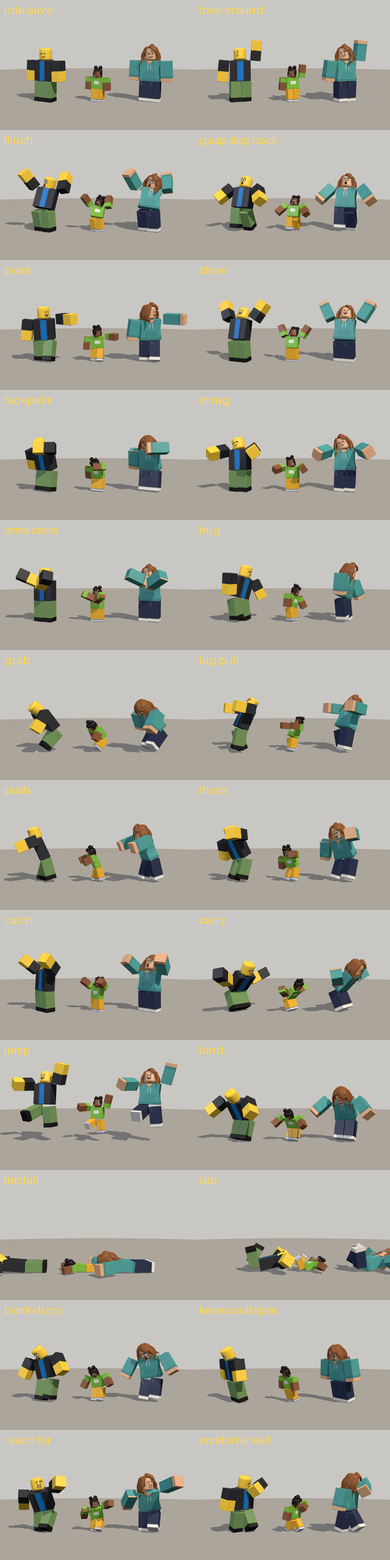
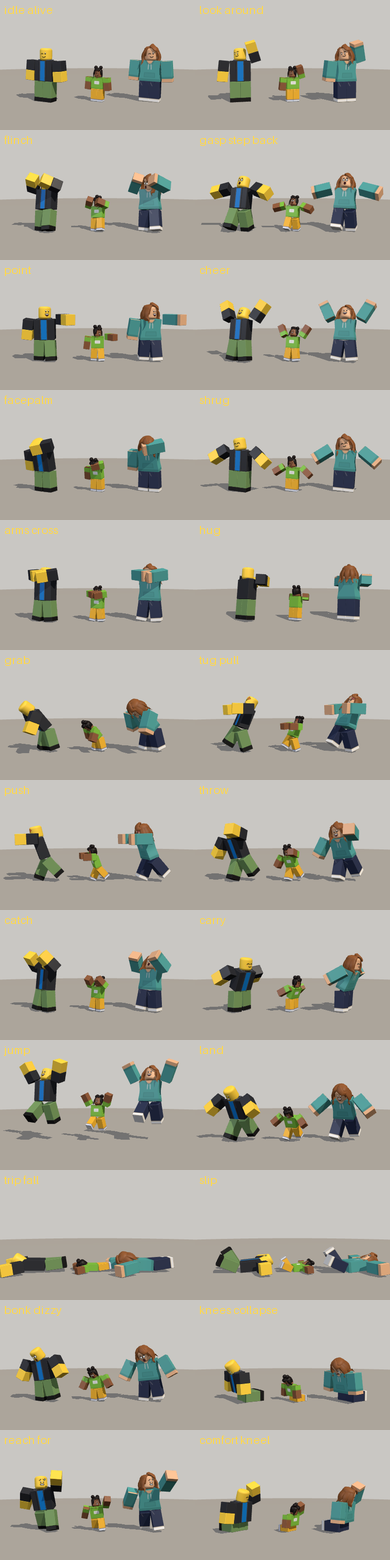
tuft E5 phase 1A fix: authored classic R6 keys (r6keys.js) replace the retarget; R6 contact gates; per-machine byte-identity
Claude-Session: https://claude.ai/code/session_01J6Ujxx5YjtoGHSygWY6CTh

diff --git a/engine/r6keys.js b/engine/r6keys.js
@@ -1,0 +1,74 @@
+// engine/r6keys.js — authored classic R6 key poses (owner 2026-11-24: rigid R6, no bends). Data only: acting6 P() specs on
+// shoulders / hips / head / root, waist 0, ik 0. Timing (act, tail, anticipation, overshoot, settle, holds) stays acting6's.
+// Classic R6 cheats: a crouch is a leg splay (the body plants lower), a kneel is a leg laid flat behind, a bend is a whole-body
+// lean with the legs counter-rotated. engine/r6.js plants every grounded pose on the floor, so no key carries a root height.
+// Conventions (degrees): shoulder/hip x < 0 = forward/up; left z < 0 / right z > 0 = outward; root lean > 0 = forward.
+// A leg's world angle = hip x + root lean (> 0 = behind): a lean of 40 with straight-down legs needs hips at −40.
+import {P, REST, VERBS} from './acting6.js';
+
+const Z = {waist: [0, 0, 0], ik: 0};
+const k = spec => P({...Z, ...spec});
+// settle = the key eased 12 % back toward rest (a held key that breathes out), unless authored
+const ease = (key, f = .12) => Object.fromEntries(Object.entries(key).map(([c, x]) => [c, typeof x === 'number' && typeof REST[c] === 'number' && c !== 'ik' ? x + f * (REST[c] - x) : x]));
+const V = (key, {settle = null, antic = null, ...rest} = {}) => { const K = k(key); return {key: K, settle: settle ? k(settle) : ease(K), ...(antic ? {antic: k(antic)} : {}), ...rest}; };
+const ARC = {arc: undefined};   // no elbow arc on a rigid arm
+
+export const R6KEYS = {
+  idle_alive: V({lS: [0, 0, -4], rS: [2, 0, 5], head: [0, 9, 0], root: {dx: .06, roll: -1.5}}, {settle: {lS: [0, 0, -4], rS: [2, 0, 5], head: [0, 9, 0], root: {dx: .06, roll: -1.5}}}),
+  look_around: V({head: [-6, -35, 0], rS: [-165, 0, -18], lS: [2, 0, -6], root: {yaw: -10}}, {settle: {head: [-6, 35, 0], rS: [-165, 0, -18], lS: [2, 0, -6], root: {yaw: 10}}}),
+  flinch: V({lS: [-125, 0, 32], rS: [-112, 0, -34], head: [14, -28, -8], lH: [8, 0, -5], rH: [-8, 0, 5], root: {lean: -10, roll: 4, dz: -.12}}, {antic: {head: [-6, 0, 0], root: {lean: 3}}, ...ARC}),
+  gasp_step_back: V({lS: [-35, 0, -70], rS: [-35, 0, 70], head: [-12, 0, 0], lH: [-18, 0, -3], rH: [22, 0, 3], root: {lean: -10}}, ARC),
+  point: V({rS: [-92, 0, 38], lS: [4, 0, -8], head: [-5, 30, 0], lH: [2, 0, -3], rH: [-12, 0, 4], root: {yaw: 15, lean: 4}}, ARC),
+  cheer: V({lS: [-12, 0, -152], rS: [-12, 0, 152], head: [-20, 0, 0], lH: [0, 0, -8], rH: [0, 0, 8], root: {lean: -8}}, ARC),
+  // facepalm / comfort_kneel arms: solved by engine/r6.js aimArm (tests/r6.js re-checks them: hand ≤ 0.25 from the face / on the shoulder)
+  facepalm: V({rS: [-76.25, 0, -61.25], lS: [2, 0, -6], head: [24, -6, 0], root: {lean: 12}, lH: [-10, 0, -2], rH: [-10, 0, 2]},
+    {settle: {rS: [-81.5, 0, -60.5], lS: [2, 0, -6], head: [21, -5, 0], root: {lean: 10.56}, lH: [-8.8, 0, -2], rH: [-8.8, 0, 2]}, ...ARC}),
+  shrug: V({lS: [-22, 0, -52], rS: [-22, 0, 52], head: [0, 0, 12], root: {roll: -3}}, ARC),
+  arms_cross: V({lS: [-80, 0, 52], rS: [-72, 0, -52], head: [-6, -12, 4], lH: [0, 0, -7], rH: [0, 0, 7], root: {lean: -3}}),
+  grab: V({rS: [-62, 0, 6], lS: [-18, 0, -10], head: [12, 0, 0], lH: [-48, 0, -4], rH: [-25, 0, 4], root: {lean: 40}},
+    {settle: {rS: [-80, 0, 6], lS: [-8, 0, -8], head: [4, 0, 0], lH: [-16, 0, -3], rH: [-4, 0, 3], root: {lean: 10}}, ...ARC}),
+  tug_pull: V({lS: [-62, 0, 14], rS: [-68, 0, -14], head: [-6, 0, 0], lH: [-10, 0, -4], rH: [40, 0, 4], root: {lean: -24}}),
+  push: V({lS: [-108, 0, 8], rS: [-108, 0, -8], head: [-6, 0, 0], lH: [-42, 0, -3], rH: [22, 0, 3], root: {lean: 20}}),
+  throw: V({rS: [-125, 0, 14], lS: [-32, 0, -30], head: [-5, 4, 0], lH: [-40, 0, -5], rH: [12, 0, 5], root: {lean: 18, yaw: 30, roll: 8}},
+    {antic: {rS: [55, 0, 22], lS: [-40, 0, -20], lH: [-10, 0, -4], rH: [10, 0, 4], root: {lean: -10, yaw: -22}}, ...ARC}),
+  catch: V({lS: [-132, 0, 16], rS: [-132, 0, -16], head: [-15, 0, 0], lH: [-6, 0, -4], rH: [6, 0, 4], root: {lean: -6}}, ARC),
+  jump: V({lS: [-160, 0, -22], rS: [-160, 0, 22], head: [-15, 0, 0], lH: [-45, 0, -4], rH: [22, 0, 4], root: {lean: -4}},
+    {antic: {lS: [42, 0, -12], rS: [42, 0, 12], head: [10, 0, 0], lH: [-38, 0, -4], rH: [14, 0, 4], root: {lean: 16}},
+      settle: {lS: [-12, 0, -10], rS: [-12, 0, 10], lH: [-6, 0, 0], rH: [4, 0, 0], root: {lean: 4}}, sub: undefined}),
+  land: V({lS: [-50, 0, -42], rS: [-50, 0, 42], head: [14, 0, 0], lH: [-48, 0, -8], rH: [10, 0, 8], root: {lean: 24}},
+    {settle: {lS: [-10, 0, -10], rS: [-10, 0, 10], lH: [-6, 0, 0], rH: [4, 0, 0], root: {lean: 4}}}),
+  trip_fall: V({lS: [-170, 0, -22], rS: [-170, 0, 22], head: [-30, 0, 0], lH: [4, 0, -4], rH: [10, 0, 4], root: {lean: 88}}),
+  slip: V({lS: [0, 0, -100], rS: [0, 0, 100], head: [20, 0, 0], lH: [-62, 0, -8], rH: [-30, 0, 8], root: {lean: -85}},
+    {settle: {lS: [0, 0, -80], rS: [0, 0, 82], head: [12, 6, 0], lH: [-16, 0, -8], rH: [-6, 0, 8], root: {lean: -86}}}),
+  bonk_dizzy: V({lS: [-15, 0, -30], rS: [-10, 0, 24], head: [25, 0, 12], lH: [0, 0, -10], rH: [0, 0, 4], root: {lean: 6, roll: 8}}),
+  // classic R6 kneel: legs laid flat behind (hip + lean ≈ 90°: a forward lean swings the legs back too), the body planted on them
+  knees_collapse: V({lS: [-10, 0, -6], rS: [-10, 0, 6], head: [22, 0, 0], lH: [78, 0, -4], rH: [78, 0, 4], root: {lean: 12}},
+    {settle: {lS: [-6, 0, -5], rS: [-6, 0, 5], head: [30, 0, 0], lH: [70, 0, -4], rH: [70, 0, 4], root: {lean: 20}}}),
+  reach_for: V({rS: [-140, 0, 16], lS: [20, 0, -20], head: [-20, 25, 0], lH: [15, 0, -4], rH: [-25, 0, 4], root: {lean: 14, yaw: 20, roll: 6}}, ARC),
+  // comfort: the classic two-knee R6 kneel (legs flat behind), the reaching hand resting on the partner's near shoulder top
+  comfort_kneel: V({rS: [-157.5, 0, -25.25], lS: [-6, 0, -8], head: [12, 21, 0], lH: [84, 0, -4], rH: [84, 0, 4], root: {lean: 6, yaw: 10}},
+    {settle: {rS: [-156.5, 0, -24.75], lS: [-5.3, 0, -7.4], head: [10.6, 18.5, 0], lH: [84.72, 0, -4], rH: [84.72, 0, 4], root: {lean: 5.28, yaw: 8.8}}, ...ARC}),
+  comfort_b: V({head: [28, -16, 0], lS: [-4, 0, -4], rS: [-4, 0, 4], root: {lean: 10}}),
+  // hugs: both arms forward and in, around the partner's torso (size by partner: _s small, _l large); engine/r6.js turns each actor to face its partner
+  hug: V({lS: [-88, 0, 38], rS: [-88, 0, -38], head: [0, 14, 0], root: {lean: 8, roll: -4}}),
+  hug_b: V({lS: [-92, 0, 36], rS: [-92, 0, -36], head: [-10, -14, 0], root: {lean: 8, roll: 4}}),
+  hug_s: V({lS: [-62, 0, 62], rS: [-62, 0, -62], head: [22, 14, 0], lH: [-30, 0, -4], rH: [4, 0, 4], root: {lean: 22}}),
+  hug_b_s: V({lS: [-140, 0, 22], rS: [-140, 0, -22], head: [-24, 0, 0], root: {lean: -4}}),
+  hug_l: V({lS: [-120, 0, 46], rS: [-120, 0, -46], head: [-20, 14, 0], root: {lean: -4}}),
+  hug_b_l: V({lS: [-62, 0, 36], rS: [-62, 0, -36], head: [18, -14, 0], lH: [-26, 0, -4], rH: [4, 0, 4], root: {lean: 18}}),
+  // carries (acting6 CARRY): piggyback = the carried actor's hips on the lead's back, his arms angled back under her legs;
+  // hip carry = she sits on his right hip (yawed toward him), his right arm across her back. The carried actor is never planted.
+  carry: V({lS: [34, 0, -22], rS: [34, 0, 22], head: [-14, 0, 0], lH: [-26, 0, -5], rH: [-18, 0, 5], root: {lean: 24}}, {antic: {lS: [22, 0, -8], rS: [22, 0, 8], head: [6, 0, 0], lH: [-18, 0, -4], rH: [-10, 0, 4], root: {lean: 14}}}),
+  carried: V({lS: [-95, 0, 26], rS: [-95, 0, -26], head: [-26, 0, 0], lH: [-80, 0, -52], rH: [-80, 0, 52], root: {lean: 40}}),
+  carry_hip: V({rS: [-58, 0, -26], lS: [-6, 0, -8], head: [6, 14, 0], lH: [0, 0, -6], rH: [0, 0, 8], root: {roll: -5}}),
+  carried_hip: V({lS: [-100, 0, 30], rS: [-100, 0, -30], head: [-6, 10, 0], lH: [-70, 0, -34], rH: [-70, 0, 34], root: {lean: -6}}),
+  carry_box: V({lS: [-80, 0, 12], rS: [-80, 0, -12], head: [6, 0, 0], root: {lean: -5}}),
+  // gestures (talk): rigid arm flicks, head moves keep acting6's own keys
+  beat: {key: k({rS: [-28, 0, 10]})},
+  open_palms: {key: k({lS: [-42, 0, -32], rS: [-42, 0, 32]})},
+};
+// hugs: each actor turns to face its partner (a rigid body cannot reach sideways; yaw from acting6's two.place) and steps in
+const HUG_STEP = [.7, .45];
+for (const sfx of ['', '_s', '_l']) { const v = VERBS['hug' + sfx]; if (!v?.two) continue; const [x, z, yw] = v.two.place, lead = Math.atan2(x, z) * 180 / Math.PI, back = Math.atan2(-x, -z) * 180 / Math.PI - yw;
+  const bk = ((back + 540) % 360) - 180, step = (k, yaw, d) => { k['root.yaw'] = yaw; k['root.dx'] = d * Math.sin(yaw * Math.PI / 180); k['root.dz'] = d * Math.cos(yaw * Math.PI / 180); };
+  for (const ph of ['key', 'settle']) { step(R6KEYS['hug' + sfx][ph], lead, HUG_STEP[0]); step(R6KEYS['hug_b' + sfx][ph], bk, HUG_STEP[1]); } }   // each steps in toward the other

diff --git a/tests/r6.js b/tests/r6.js
@@ -1,4 +1,4 @@
-// tests/r6.js — R6 rig + twos + freeze gates (node-only; the render byte-identity gate spawns scripts/v2/render.js once):  node tests/r6.js
+// tests/r6.js — R6 rig (authored keys) + twos + freeze gates (node-only; the render byte-identity gate spawns scripts/v2/render.js once):  node tests/r6.js
 import {execFileSync} from 'node:child_process';
 import {createHash} from 'node:crypto';
 import {readFileSync, mkdtempSync} from 'node:fs';
@@ -13,21 +13,23 @@ import {widthAt} from '../avatar-style/hourglass.js';
 const gates = [], gate = (name, pass, line) => { gates.push({name, pass}); console.log(`${pass ? 'PASS' : 'FAIL'}  ${name} — ${line}`); };
 const REACH_MAX = .35, builds = ['adult_m', 'youth', 'adult_f'];
 const verbs = [...new Set([...A.VERB_NAMES, ...Object.values(A.PARTNER).filter(Boolean)])];
-// 1. hand / foot target error at each verb's contact key (limbs the verb moves > .6 stud from the idle pose)
-const rest = A.fk(A.sampleVerb('idle_alive', 0).sample), centre = c => c.reduce((a, p) => a.map((x, i) => x + p[i] / c.length), [0, 0, 0]), dist = (a, b) => Math.hypot(...a.map((x, i) => x - b[i]));
-const reach = [];
-for (const n of verbs) { const s = A.sampleVerb(n, A.timing(A.VERBS[n]).key).sample, f = A.fk(s), r = R.reachErrors(s, 'adult_m'), used = [];
-  for (const k of ['leftHand', 'rightHand']) if (dist(f[k].p, rest[k].p) > .6) used.push(k);
-  for (const k of ['leftFoot', 'rightFoot']) if (dist(centre(f[k + 'Corners']), centre(rest[k + 'Corners'])) > .6) used.push(k);
-  reach.push({verb: n, worst: used.length ? Math.max(...used.map(k => r.err[k])) : 0, limbs: used.map(k => `${k[0]}${k.includes('Hand') ? 'H' : 'F'}:${r.err[k].toFixed(2)}`).join(' ')}); }
-const bad = reach.filter(x => x.worst > REACH_MAX);
-gate('reach ≤ 0.35 studs at every verb key', bad.length === 0, `${reach.length - bad.length}/${reach.length} verbs pass; worst ${Math.max(...reach.map(x => x.worst)).toFixed(2)}${bad.length ? '; over: ' + bad.map(x => `${x.verb} ${x.worst.toFixed(2)}`).join(', ') : ''}`);
+// 1. authored R6 contacts (engine/r6keys.js): facepalm hand at the face, comfort hand on the partner's shoulder, kneels' legs flat,
+//    hugs' hands at the partner's torso (each actor turned to face the other)
+const c = R.r6Contacts(), K = n => A.timing(A.VERBS[n]).key, S6 = (n, b = 'adult_m') => R.sampleVerbR6(n, K(n), {build: b}).sample;
+const kneel = Math.max(...['knees_collapse', 'comfort_kneel'].flatMap(n => ['leftFoot', 'rightFoot'].map(f => R.r6Fk(S6(n))[f].p[1])));
+const hugGap = Math.max(...['', '_s', '_l'].map(sfx => { const [x, z, yw] = A.VERBS['hug' + sfx].two.place, pt = R.r6Fk(S6('hug_b' + sfx)).root.p, cy = Math.cos(yw * Math.PI / 180), sy = Math.sin(yw * Math.PI / 180);
+  const ctr = [pt[0] * cy + pt[2] * sy + x, 0, -pt[0] * sy + pt[2] * cy + z], f = R.r6Fk(S6('hug' + sfx));
+  return Math.max(...['leftHand', 'rightHand'].map(h => Math.hypot(f[h].p[0] - ctr[0], f[h].p[2] - ctr[2]))); }));
+gate('R6 contacts (facepalm ≤ 0.25, comfort ≤ 0.05, kneel legs flat ≤ 0.6, hug hands ≤ 1.3 from partner centre)',
+  Math.max(c.facepalm.key, c.facepalm.settle) <= .25 && Math.max(c.comfort_kneel.key, c.comfort_kneel.settle) <= .05 && kneel <= .6 && hugGap <= 1.3,
+  `facepalm ${c.facepalm.key}/${c.facepalm.settle}, comfort ${c.comfort_kneel.key}/${c.comfort_kneel.settle}, kneel tip y max ${kneel.toFixed(2)}, hug hands ${hugGap.toFixed(2)}`);
 // 2. lowestY ≥ −0.02 and limb / torso overlap ≤ 0.05 over every verb (1/24 s sweep, three builds) and cycle
-let lowMin = Infinity, penMax = 0, lowAt = '', penAt = ''; const check = (tag, s, b) => { const lo = R.lowestR6(s, b), bx = R.r6Boxes(s, b); if (lo < lowMin) { lowMin = lo; lowAt = tag; }
+let lowMin = Infinity, penMax = 0, lowAt = '', penAt = '', floatMax = 0; const check = (tag, s, b) => { const lo = R.lowestR6(s, b), bx = R.r6Boxes(s, b); if (lo < lowMin) { lowMin = lo; lowAt = tag; }
   for (const k of ['leftArm', 'rightArm', 'leftLeg', 'rightLeg']) { const p = R.penetration(bx[k], bx.torso).depth; if (p > penMax) { penMax = p; penAt = `${tag} ${k}`; } } };
-for (const b of builds) { for (const n of A.VERB_NAMES) { const tm = A.timing(A.VERBS[n]); for (let t = 0; t <= tm.end; t += 1 / 24) check(`${n}@${t.toFixed(2)}/${b}`, R.retargetR15toR6(A.sampleVerb(n, t, {build: b}).sample, b), b); }
+for (const b of builds) { for (const n of A.VERB_NAMES) { const tm = A.timing(A.VERBS[n]); for (let t = 0; t <= tm.end; t += 1 / 24) { const r6 = R.sampleVerbR6(n, t, {build: b}), s6 = r6.sample; check(`${n}@${t.toFixed(2)}/${b}`, s6, b); if (!A.VERBS[n].air && !R.UNPLANTED.has(n)) floatMax = Math.max(floatMax, R.lowestR6(s6, b) - Math.max(0, r6.ch['root.dy'])); } }
   for (const n of R.R6CYCLE_NAMES) for (let t = 0; t < 2 * A.CYCLES[n].T; t += 1 / 24) check(`${n}@${t.toFixed(2)}/${b}`, R.r6Cycle(n, t, {build: b}), b); }
 gate('lowestY ≥ −0.02 (verbs + cycles, 3 builds)', lowMin >= R.LOW_TOL, `min ${lowMin.toFixed(3)} at ${lowAt}`);
+gate('grounded verbs planted (lowest − authored bounce ≤ 0.02)', floatMax <= .02, `max ${floatMax.toFixed(3)}`);
 gate('limb box inside torso box ≤ 0.05', penMax <= R.MAX_PEN + 1e-3, `max ${penMax.toFixed(3)} at ${penAt}`);
 // 3. twos: poses identical on frame pairs (2k, 2k + 1), camera differs
 const shot = {move: 'push', from: {position: [0, 4, 20], target: [0, 3, 0], fov: 40}, duration: 3, fps: 24}; let same = 0, camDiff = 0, N = 0;
@@ -35,11 +37,13 @@ for (let k = 0; k < 36; k++) { const t0 = 2 * k / 24, t1 = (2 * k + 1) / 24; N++
   const a = JSON.stringify(A.sampleVerb('cheer', R.twosTime(t0)).sample), b = JSON.stringify(A.sampleVerb('cheer', R.twosTime(t1)).sample); if (a === b && R.twosTime(t0) === R.twosTime(t1)) same++;
   if (JSON.stringify(sampleCamera(shot, t0)) !== JSON.stringify(sampleCamera(shot, t1))) camDiff++; }
 gate('twos: poses identical on pairs, camera differs', same === N && camDiff === N && R.twosTime(3 / 24) === 2 / 24, `${same}/${N} pose pairs identical, camera differs on ${camDiff}/${N} pairs`);
-// 4. an existing fixture frame without `rig` renders byte-identical to the pre-R6 engine (md5 recorded before the change)
-const BASE = '52f4cd4754f23f9688ecf5f99a6a4183', out = mkdtempSync(path.join(tmpdir(), 'r6-'));
+// 4. an existing fixture frame without `rig` renders byte-identical to the pre-R6 engine. PNG bytes differ per browser / GPU, so the
+//    E4-engine md5 is recorded per machine (each one rendered from E4's engine files on that machine, then compared with this tree).
+const BASES = {'52f4cd4754f23f9688ecf5f99a6a4183': 'phase-1A machine (google-chrome)', '1e1a4e683519ee3d18cbc93c88078829': 'chromium-1243 swiftshader ($BLOX_CHROME)'};
+const out = mkdtempSync(path.join(tmpdir(), 'r6-'));
 let md5 = 'render failed'; try { execFileSync('node', ['scripts/v2/render.js', '--spec', 'engine/fixtures/acting6/episode.json', '--out', out, '--width', '270', '--height', '480', '--from', '60', '--to', '61', '--aa', '0'], {stdio: 'pipe', timeout: 300000});
   md5 = createHash('md5').update(readFileSync(path.join(out, 'frames/frame-00060.png'))).digest('hex'); } catch (e) { md5 = 'render failed: ' + String(e.message).slice(0, 80); }
-gate('byte-identical render without `rig`', md5 === BASE, `engine/fixtures/acting6 frame 60 md5 ${md5.slice(0, 12)} vs ${BASE.slice(0, 12)}`);
+gate('byte-identical render without `rig`', md5 in BASES, `engine/fixtures/acting6 frame 60 md5 ${md5.slice(0, 12)} = E4 on ${BASES[md5] ?? 'no recorded machine (render E4 engine files here and add the md5)'}`);
 // 5. freeze-check
 const fake = violations(['stories/tuft/episode.json', 'beasts/x.json', 'parts/locations/y.json', 'cast/z.json'], 'tuft'), eng = violations(['stories/tuft/episode.json', 'engine/r6.js'], 'tuft');
 gate('freeze-check: episode diff passes, engine diff fails', fake.length === 0 && eng.length === 1 && eng[0] === 'engine/r6.js', `episode diff ${fake.length} violations, engine diff ${eng.length} (${eng.join(',')})`);

diff --git a/engine/r6.js b/engine/r6.js
@@ -1,11 +1,15 @@
-// engine/r6.js — rigid classic R6 rig (opt-in spec `rig: 'r6'`, owner 2026-11-24): acting6's R15 poses retargeted onto six rigid parts (no bends), classic R6 cycles, `twos`. Pure (no three, no DOM).
+// engine/r6.js — rigid classic R6 rig (opt-in spec `rig: 'r6'`, owner 2026-11-24): AUTHORED R6 key poses (engine/r6keys.js) on acting6 timing,
+//   classic R6 cycles, `twos`. Pure (no three, no DOM). retargetR15toR6 below is the 1A automatic retarget, kept as a reference only
+//   (straight limbs cannot match R15 elbows / knees: 14/30 verbs over 0.35; the owner's sheet read stiff).
 // R6 sample = engine/poses.js shape: {root: {dx, dy, dz, lean, roll, yaw}, pivots: {head, left/rightShoulder, left/rightHip} (XYZ radians), offsets?}.
 //   retargetR15toR6(s15, build): head / torso / root rotation copied (the R6 torso takes the waist's rotation); each limb is ONE rigid
 //   part aimed along the R15 chord (shoulder → hand tip, hip → sole) with the twist of the R15 upper segment. A leg whose chord is
 //   shorter than the limb (sit, kneel, crouch) keeps the limb straight, aims along the thigh and the root sinks (classic R6: sit =
 //   legs 90° forward, kneel = one leg back, root lowered). Root height: the lowest R6 point = the lowest R15 point, never below 0.
 //   A limb box that would cut into the torso box moves its pivot out (offsets) until the overlap is ≤ 0.05.
-import {fk, lowestBody, sampleActing, timing, VERBS, CYCLES, SEGL} from './acting6.js';
+import {fk, lowestBody, sampleActing, sampleVerb, timing, VERBS, CYCLES, SEGL} from './acting6.js';
+import {R6KEYS} from './r6keys.js';
+export {R6KEYS};
 import {layout6} from '../avatar-style/body6.js';
 
 const D = Math.PI / 180, clamp01 = x => Math.min(1, Math.max(0, x)), smooth = x => { x = clamp01(x); return x * x * (3 - 2 * x); };
@@ -141,9 +145,43 @@ export function r6Cycle(name, t, {build = 'adult_m', intensity = 1} = {}) {
 }
 const mixS = (a, b, w) => ({root: Object.fromEntries(Object.keys(a.root).map(k => [k, a.root[k] + (b.root[k] - a.root[k]) * w])),
   pivots: Object.fromEntries(Object.keys(a.pivots).map(k => [k, a.pivots[k].map((x, i) => x + (b.pivots[k][i] - x) * w)])), offsets: w < 1 ? a.offsets : {}, squash: a.squash ?? 0});
-// An acting track (engine/acting6.js compileActing) sampled on R6: every verb / gesture / drift through the retarget, cycles classic.
+// ---- authored R6 keys (engine/r6keys.js): acting6 timing, R6 poses. `withR6` swaps the verb table's poses for the call only. ---------
+export function withR6(fn) {
+  const saved = {}; for (const [n, o] of Object.entries(R6KEYS)) if (VERBS[n]) { saved[n] = VERBS[n]; VERBS[n] = {...VERBS[n], ...o}; }
+  try { return fn(); } finally { Object.assign(VERBS, saved); }
+}
+// R6 sample straight from acting6 channels (degrees): head / shoulders / hips copied, waist / elbows / knees / IK ignored (rigid parts).
+// Planted: the lowest point sits on the floor, lifted only by a positive root height (jump / land flight, impact bounces). Limbs kept out of the torso.
+export const UNPLANTED = new Set(['carried', 'carried_hip']);   // placed on the carrier by the episode, never on the floor
+export function r6FromChannels(ch, build = 'adult_m', {plant = true} = {}) {
+  const lean = ch['root.lean'] * D, roll = ch['root.roll'] * D, yaw = ch['root.yaw'] * D, R0 = RYXZ({lean, roll, yaw}), c = [0, ch['root.cy'], ch['root.cz']];
+  const p = add([ch['root.dx'], ch['root.dy'], ch['root.dz']], sub(c, mv(R0, c))), cy = Math.cos(yaw), sy = Math.sin(yaw), piv = j => ['x', 'y', 'z'].map(a => (ch[`${j}.${a}`] ?? 0) * D);
+  const s = {pivots: Object.fromEntries(['head', 'leftShoulder', 'rightShoulder', 'leftHip', 'rightHip'].map(j => [j, piv(j)])),
+    root: {dx: p[0] * cy - p[2] * sy, dy: p[1], dz: p[0] * sy + p[2] * cy, lean, roll, yaw}, offsets: {}, squash: ch['torso.sq'] ?? 0};
+  clearTorso(s, build); if (plant) s.root.dy += Math.max(0, ch['root.dy']) - lowestR6(s, build);
+  return s;
+}
+// ---- contact tools: rigid arms aimed by a 2-D search over shoulder x / z (offline: the solutions are stored in r6keys.js) ------------
+const dist3 = (a, b) => Math.hypot(a[0] - b[0], a[1] - b[1], a[2] - b[2]);
+export function aimArm(verb, side, target, build = 'adult_m') {
+  const out = {};
+  for (const ph of ['key', 'settle']) { const K = R6KEYS[verb][ph], cx = side + 'Shoulder.x', cz = side + 'Shoulder.z';
+    const err = (x, z) => { const c = {...K, [cx]: x, [cz]: z}, s = r6FromChannels(c, build); return dist3(r6Fk(s, build)[side + 'Hand'].p, target(s)); };
+    let b = [Infinity, 0, 0]; for (let x = -180; x <= 60; x += 4) for (let z = -100; z <= 100; z += 4) { const e = err(x, z); if (e < b[0]) b = [e, x, z]; }
+    for (const st of [1, .25]) { const [, x0, z0] = b; for (let x = x0 - 4 * st; x <= x0 + 4 * st; x += st) for (let z = z0 - 4 * st; z <= z0 + 4 * st; z += st) { const e = err(x, z); if (e < b[0]) b = [e, x, z]; } }
+    K[cx] = b[1]; K[cz] = b[2]; out[ph] = +b[0].toFixed(3); }
+  return out;
+}
+const placeXZ = ([x, z, yaw], p) => { const c = Math.cos(yaw * D), s = Math.sin(yaw * D); return [p[0] * c + p[2] * s + x, p[1], -p[0] * s + p[2] * c + z]; };
+export const faceFront = s => { const h = r6Fk(s).head; return add(h.p, mv(h.R, [0, .62, .78])); };
+export function comfortTarget() { const pv = r6FromChannels(R6KEYS.comfort_b.key), sh = r6Fk(pv).leftShoulder.p; return placeXZ(VERBS.comfort_kneel.two.place, add(sh, [0, .55, 0])); }
+// stored solutions re-checked by tests/r6.js: hand-to-target distance of the authored facepalm / comfort_kneel keys
+export function r6Contacts() { const at = (v, side, tgt) => Object.fromEntries(['key', 'settle'].map(ph => { const s = r6FromChannels(R6KEYS[v][ph]); return [ph, +dist3(r6Fk(s)[side + 'Hand'].p, tgt(s)).toFixed(3)]; }));
+  const top = comfortTarget(); return {facepalm: at('facepalm', 'right', faceFront), comfort_kneel: at('comfort_kneel', 'right', () => top)}; }
+export function sampleVerbR6(name, t, opts = {}) { const b = withR6(() => sampleVerb(name, t, opts)); return {...b, sample: r6FromChannels(b.ch, opts.build, {plant: !UNPLANTED.has(name)})}; }
+// An acting track (engine/acting6.js compileActing) sampled on R6: authored R6 keys on acting6 timing, cycles classic.
 export function sampleActingR6(tr, t, {seed = 1, build = 'adult_m'} = {}) {
-  const base = sampleActing(tr, t, {seed, build}); let s = retargetR15toR6(base.sample, build);
+  const base = withR6(() => sampleActing(tr, t, {seed, build})), it = tr.items.findLast(x => x.start <= t); let s = r6FromChannels(base.ch, build, {plant: !UNPLANTED.has(it?.verb)});
   let i = -1; for (let k = 0; k < tr.items.length; k++) if (tr.items[k].start <= t) i = k;
   const cy = tr.cycles.find(c => t >= c.start && t < c.until && (i < 0 || tr.items[i].start < c.start));
   if (cy && R6CYCLE[cy.name]) s = mixS(s, {...r6Cycle(cy.name, t - cy.start, {build}), offsets: {}}, smooth((t - cy.start) / .15));

diff --git a/engine/r6-stage.js b/engine/r6-stage.js
@@ -5,7 +5,7 @@ import {buildActor} from './actors.js';
 import {applyPoseSample} from './poses.js';
 import {setFace6} from '../avatar-style/faces6.js';
 import {VERBS, sampleVerb} from './acting6.js';
-import {retargetR15toR6} from './r6.js';
+import {sampleVerbR6} from './r6.js';
 import {FACE} from './acting6-reel.js';
 
 const load = async u => (await fetch(new URL('../' + u, import.meta.url))).json();
@@ -23,7 +23,7 @@ const camera = new T.PerspectiveCamera(30, 1, .3, 300), actors = CAST.map(([id, 
 export function render({name, t, w, h}) {
   const v = VERBS[name], yaw = -(v?.cam ?? 30) * Math.PI / 180;
   for (const {id, a, x} of actors) {
-    const s = sampleVerb(name, t, {build: a.build}).sample, s6 = retargetR15toR6(s, a.build);
+    const s6 = sampleVerbR6(name, t, {build: a.build}).sample;
     applyPoseSample(a, s6, {position: [x, 0, 0], yaw});
     const sq = s6.squash ?? 0; if (sq && a.parts.torso) { a.parts.torso.userData.rest ??= a.parts.torso.scale.clone(); a.parts.torso.scale.set(1 + sq / 2, 1 - sq, 1 - sq); }
     try { setFace6(a, FACE[name] ?? 'smile'); } catch { setFace6(a, 'smile'); }

diff --git a/docs/LIBRARY.md b/docs/LIBRARY.md
@@ -63,7 +63,8 @@ Read only the lines a task needs; add one line per new reusable piece here. Move
 - E3b staging (opt-in): `engine/clear6.js` (`clearScreen` / `overlap`: D1 "clean the foreground"; `clearHidden` / `segSeg` capsule variant) + episode.js `shot.clear` / `shot.keep` · story6 `crowd.spread` / `crowd.partial` / `crowd.avoid`, markers `sitOn` / `lie` / `rise` (`SIT`), finished washes cover the whole mesh · brief2spec META `clear:`, notes `clear`, `keep:`, `key:`, `crowdArea:`, `crowdAvoid:` · `scripts/v2/midshots.js` (one-load mid-frame sheet + read numbers), `scripts/v2/where.js` (actor feet / head / facing per shot), `scripts/v2/e3b-gates.js` (D4 G2a head-in-frame luma + payoff jacket ΔE) (tests `tests/v2/e3b.test.js`).
 - E4 unranked P1 cast: `avatar-style/symbol.js` + `symbol3d.js` (birth symbol on the right hand: cast `symbol {shape,color,rank}`, `symbolDark`, ranks D<C<B<A<S size/glow, `symbolSpec`; HERO = hard error via `assertNoHeroSymbol`) · `avatar-style/deltae.js` (`deltaE2000`) · `avatar-style/outfit6x.js` (`regions.skirt`, `regions.apron`).
 - E4 `engine/student.js` (`studentLook(seed)`, `uniformRegions(trim, skin)`) · troupe6 slot ADULT_F + costumes LILA, DAX, DAD, MOM, STUDENT_A/B/C, STUDENT (`seeded`, cast `seed: n`) · `avatar-style/dog.js` (`buildDog`/`driveDog`/`sampleDog`; cast `style: 'dog'`, brief `- dog → DOG`) · `scripts/v2/unranked-p1.js` (+ `.py`): cast sheet, symbols ECU, 12-kid line-up, G1–G4 → review/unranked/p1/.
-- `engine/r6.js` (opt-in spec `rig: 'r6'`, owner 2026-11-24): rigid classic R6 on Actor v5 + faces v6; `retargetR15toR6(s15, build)` aims each limb as ONE rigid part along the R15 chord (twist from the upper segment; short chords: thigh direction + root height search), `clearTorso` (limb box in torso box ≤ 0.05 via pivot offsets), `r6Cycle` classic cycles (walk 30° / run 55° / sprint 70° / sad_walk 15° + head down / sneak 20° + lean 15°, opposite swing, tiny bob, no foot IK), `sampleActingR6(track, t)` (acting6 timing kept, only the joint mapping changes), `reachErrors`, `r6Fk/r6Boxes/lowestR6/penetration`; `avatar-style/hourglass.js` (`torsoShape: 'hourglass'`, adult_f only: waist −8 %, hips +4 %); review `engine/r6.html` + `r6-stage.js` + `scripts/v2/r6-sheet.js` → `review/r6/verbs.png`/`verbs-390.png`; gates `node tests/r6.js`; fixture `engine/fixtures/r6/`.
+- `engine/r6.js` (opt-in spec `rig: 'r6'`, owner 2026-11-24): rigid classic R6 on Actor v5 + faces v6, posed from AUTHORED R6 keys (`engine/r6keys.js`) on acting6 timing: `withR6(fn)` swaps the verb poses for one call, `r6FromChannels(ch, build, {plant})` (planted on the floor; `UNPLANTED` carried), `sampleVerbR6`, `sampleActingR6`; contact tools `aimArm` / `r6Contacts` (facepalm, comfort); classic cycles `r6Cycle`; `twosTime`. `retargetR15toR6` kept as reference only. Gates: `node tests/r6.js` (needs `BLOX_CHROME` where google-chrome is broken).
+- `engine/r6keys.js`: authored classic R6 key poses (all 24 verbs + partner halves + hug/carry variants + beat/open_palms), acting6 `P()` data; R6 cheats: crouch = leg splay, kneel = legs flat behind (hip + lean ≈ 90°), bend = whole-body lean with counter-rotated hips; hugs turn and step each actor toward the partner. New verbs: add a line here, never a retarget.
 - `cast/troupe-r6.json`: the troupe on classic R6 (body v5, faceStyle v6, `rig: 'r6'`), same slots / outfits / kid scales as troupe6.json; ADULT_F carries `torsoShape: 'hourglass'`; the hero is `cast/hero.json` HERO. Loaded by specs with `rig: 'r6'`.
 - twos (spec `twos: true`, 24 fps): actor poses (body, origin, faces, blinks, lip flaps) sample `twosTime(t)` = the even frame (`engine/r6.js`); camera, FX, particles, beast glow and light stay on ones; `markPos` (camera paths) stays on ones.
 - `scripts/codemap.js` (`npm run codemap`) → `CODEMAP.md`: one line per .js/.json under engine/, avatar-style/, parts/, scripts/, beasts/, cast/ from its first comment line; find code with it + `grep -n`.

diff --git a/PROGRESS.md b/PROGRESS.md
@@ -1813,3 +1813,7 @@ Numbers: lowestY min −0.000 (≥ −0.02) PASS · limb/torso overlap max 0.040
 FAIL: reach ≤ 0.35 at the verb key: 16/30 verbs pass (24 verbs + partner halves), worst carried 1.25, hug_b_l 0.74, comfort_kneel 0.74, arms_cross 0.71, grab 0.70, knees_collapse 0.65. A straight limb cannot match an elbow/knee-bent R15 chord (error ≥ 2 − chord) or a crouch (legs straight). Two fix passes done (re-aim after pivot offsets; root-height search): stopped, not loosened.
 Decisions: contact limbs = limbs the verb moves > 0.6 stud from idle; error = tip distance when chord ≥ 1.65, else target distance from the limb axis. E4 has no episode.json yet, so the byte-identity fixture is engine/fixtures/acting6 (md5 recorded before the change). Sheet cells show the lead half on all three actors (partner halves are in the reach gate only). Props held in hands follow the R15 hands (off by the reach error).
 Open: carried half sits on R15 forearms; props in hands; reach on crouch/bent-elbow verbs (needs elbow, or per-verb R6 authored keys). Owner to rule: accept the reach gate as a stiffness report, or add authored R6 key poses for the 14.
+
+### 2026-11-24 — tuft (E5) phase 1A fix: authored R6 keys (Opus 5.5)
+Ruling: the retarget read stiff (sheet) and failed reach on 14/30 verbs, so R6 is now posed from authored classic R6 keys (`engine/r6keys.js`) on acting6 timing; the retarget stays as reference only. `node tests/r6.js` 8/8 PASS: contacts facepalm 0.217/0.214 (≤ 0.25), comfort 0.009/0.004 (≤ 0.05), kneel legs flat (tip y 0.50), hug hands ≤ 1.08 of the partner centre · lowestY −0.000 · planted (no float) 0.000 · overlap 0.040 · twos 36/36 · byte-identical (per-machine E4 md5; this sandbox needs `BLOX_CHROME=/opt/pw-browsers/chromium-1243/chrome-linux64/chrome`) · freeze-check · hourglass. Pose cost 0.39 ms vs 4.39 ms retarget. `npm test` green, v2 278/278.
+Open: props in hands still follow the R15 hand (off on R6); the sheet shows lead halves only (hug/carry read odd alone); carried actors are placed by acting6's R15 carry origin.

diff --git a/CODEMAP.md b/CODEMAP.md
@@ -76,7 +76,8 @@ engine/plancheck6.js — format 6 mood / pacing checks (P4), pure. Run by v2:pla
 engine/poses.js — (no header)
 engine/poses6.js — poses for Actor v6 (R15, avatar-style/body6.js). Pure functions of time, like engine/poses.js.
 engine/r6-stage.js — plain set for the R6 key-pose sheet (scripts/v2/r6-sheet.js): HERO + LITTLE + ADULT_F (hourglass) posed by engine/r6.js from acting6 verbs.
-engine/r6.js — rigid classic R6 rig (opt-in spec `rig: 'r6'`, owner 2026-11-24): acting6's R15 poses retargeted onto six rigid parts (no bends), classic R6
+engine/r6.js — rigid classic R6 rig (opt-in spec `rig: 'r6'`, owner 2026-11-24): AUTHORED R6 key poses (engine/r6keys.js) on acting6 timing,
+engine/r6keys.js — authored classic R6 key poses (owner 2026-11-24: rigid R6, no bends). Data only: acting6 P() specs on
 engine/readcheck.js — owner readability checks (egg preview pass 2, 2026-11-14): they judge the RENDERED frame, not the
 engine/ruleui.js — rule UI anywhere (Amendment A4 C). Any tag, stat, bar, icon, card, checklist or plate attaches to ANY
 engine/seasoncheck.js — Amendment A4 §E season gates + the A5 framing and uiSize gates, as a pure function.
